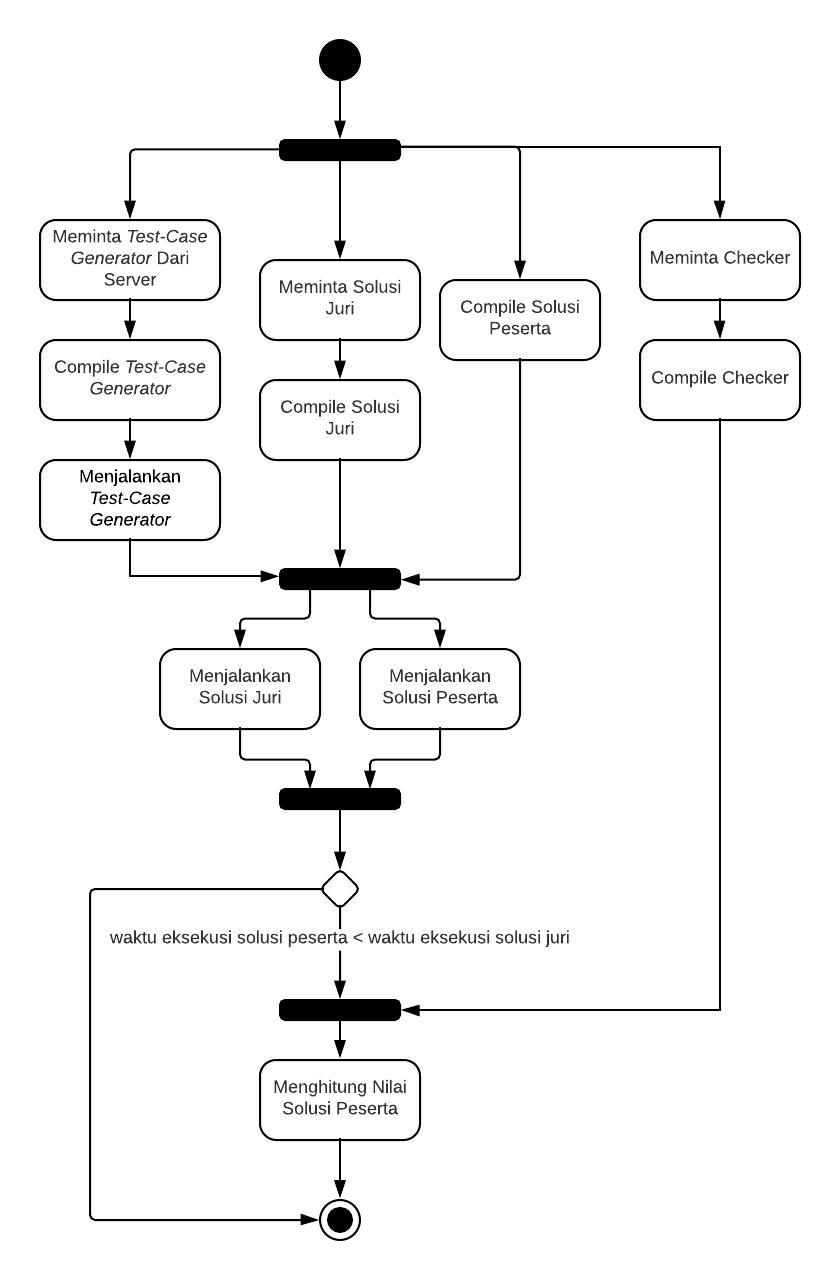
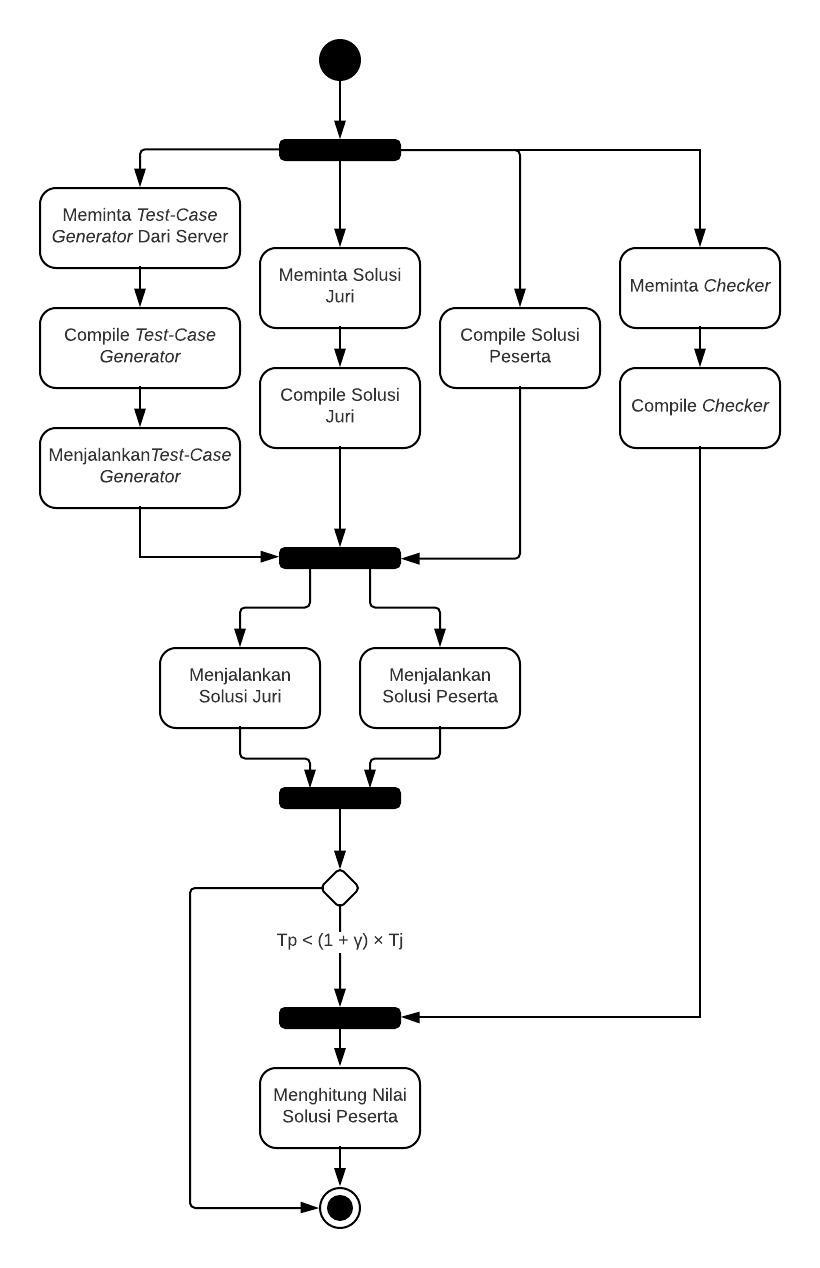
fix chapter 3

Changed region(s): [[0.0305, 0.0308, 0.9756, 0.9842]]

diff --git a/src/chapters/chapter-3.tex b/src/chapters/chapter-3.tex
@@ -4,7 +4,7 @@
 
 \section{Sistem \textit{Autograder}}
 
-\par Sistem manajemen kompetisi memerlukan \textit{autograder} untuk menilai jawaban peserta kompetisi secara otomatis. Sistem \textit{online judge} yang sering digunakan saat ini menggunakan \textit{autograder} yang dipasang oleh juri pada beberapa komputer yang sudah disediakan oleh juri. Pada Tugas Akhir ini akan diciptakan sistem \textit{autograder} yang dapat berjalan pada komputer peserta. Komputer peserta akan bertindak sebagai \textit{worker} yang menjalankan sistem \textit{autograder}. \textit{Worker} adalah komputer yang digunakan oleh sistem \textit{autograder} untuk melakukan penilaian terhadap jawaban peserta. Dalam Tugas Akhir ini, komputer peserta adalah \textit{worker} dari sistem \textit{autograder}. Terdapat beberapa aspek yang perlu diperhatikan dalam mengembangkan sistem \textit{autograder} seperti pengukuran waktu dan memori, \textit{load balancing}, evaluasi jawaban peserta, dan pengiriman \textit{test-case} ke \textit{worker}
+\par Sistem manajemen kompetisi memerlukan \textit{autograder} untuk menilai jawaban peserta kompetisi secara otomatis. Sistem \textit{online judge} yang sering digunakan saat ini menggunakan \textit{autograder} yang dipasang oleh juri pada beberapa komputer yang sudah disediakan oleh juri. Pada Tugas Akhir ini akan diciptakan sistem \textit{autograder} yang dapat berjalan pada komputer peserta. Komputer peserta akan bertindak sebagai \textit{worker} yang menjalankan sistem \textit{autograder}. \textit{Worker} adalah komputer yang digunakan oleh sistem \textit{autograder} untuk melakukan kompilasi dan eksekusi terhadap jawaban peserta. Dalam Tugas Akhir ini, komputer peserta adalah \textit{worker} dari sistem \textit{autograder}. Terdapat beberapa aspek yang perlu diperhatikan dalam mengembangkan sistem \textit{autograder} seperti pengukuran waktu dan memori, \textit{load balancing}, evaluasi jawaban peserta, dan pengiriman \textit{test-case} ke \textit{worker}
 
 \subsection{Pengukuran Waktu Dan Memori} \label{subsec:time-memory-measure}
 
@@ -14,7 +14,7 @@
 
 \subsubsection{Spesifikasi CPU dan Sistem Operasi}
 
-\par Kecepatan eksekusi sebuah program ditentukan dari \textit{clock-speed}, dan \textit{cache} dari CPU. Jika program peserta hanya diberikan satu buah \textit{core} dari CPU, maka jumlah \textit{core} dari CPU tidak perlu diperhatikan lagi. Kecepatan eksekusi program peserta dapat diukur dari spesifikasi CPU peserta. Komputer dengan \textit{clock-speed} dan ukuran \textit{cache} yang rendah akan diberikan batasan waktu yang lebih lama. Arsitektur setiap komputer juga berbeda-beda. Komputer dengan arsitektur 64-bit umumnya memerlukan memori yang lebih besar. Dengan mengetahui arsitektur komputer, kebutuhan memori dapat diperkirakan.
+\par Kecepatan eksekusi sebuah program ditentukan dari \textit{clock-speed}, dan \textit{cache} dari CPU. Jika program peserta hanya diberikan satu buah \textit{core} dari CPU, maka jumlah \textit{core} dari CPU tidak perlu diperhatikan lagi. Kecepatan eksekusi program peserta dapat diukur berdasarkan spesifikasi CPU peserta. Komputer dengan \textit{clock-speed} dan ukuran \textit{cache} yang rendah akan diberikan batasan waktu yang lebih lama. Arsitektur setiap komputer juga berbeda-beda. Komputer dengan arsitektur 64-bit umumnya memerlukan memori yang lebih besar. Dengan mengetahui arsitektur komputer, kebutuhan memori dapat diperkirakan.
 
 \par Pada penilaian jawaban peserta, diperlukan pengukuran waktu dan memori yang sangat akurat. Pengukuran waktu atau memori yang tidak akurat akan menimbulkan ketidakadilan kepada peserta. Dengan hanya memerhatikan spesifikasi dari CPU dan sistem operasi pada komputer, pengukuran waktu dan memori yang akurat sulit dilakukan. Program yang berjalan pada sistem operasi 64-bit tidak selalu memerlukan memori dua kali dari program yang berjalan pada sistem operasi 32-bit. Kebutuhan memori bergantung pada isi dari program yang dijalankan. Selain itu, menentukan batasan waktu program dari \textit{clock-speed} dan \textit{cache} tidak mudah dilakukan. 
 
@@ -30,42 +30,44 @@
 
 \par Permasalahan lain yang timbul adalah peserta dapat menjalankan program yang berat ketika \textit{benchmarking} dilakukan. Hal ini menyebabkan hasil \textit{benchmarking} menunjukkan waktu eksekusi yang lama sehingga batas waktu dari jawaban peserta akan dinaikkan. Untuk menghindari hal ini, benchmarking dapat dilakukan bersamaan dengan proses eksekusi jawaban peserta. \textit{Worker} akan menjalankan program solusi juri dan program solusi peserta dalam waktu bersamaan. Jika program peserta memiliki waktu eksekusi dan memori yang tidak jauh berbeda dengan juri maka solusi peserta dianggap sesuai batasan. Keluaran program peserta kemudian akan dibandingkan dengan keluaran program juri untuk menentukan kebenarannya.
 
-\begin{figure}
+\begin{figure}[ht!]
     \centering
     \includegraphics[width=0.5\textwidth]{images/cpu-time-counting}
     \caption{Diagram Aktivitas Penilaian Solusi Peserta}
     \label{fig:cpu-time-counting}
 \end{figure}
 
+\par Meskipun program solusi juri dan solusi peserta dieksekusi pada komputer yang sama. Waktu eksekusi kedua program tersebut dapat sedikit berbeda karena adanya perbedaan implementasi antara solusi peserta dan juri. Solusi peserta bisa saja lebih lambat atau lebih cepat dibandingkan dengan solusi juri. Oleh karena itu, perlu adanya faktor toleransi terhadap waktu eksekusi peserta. Solusi peserta dapat diterima jika waktu eksekusinya masih berada pada batas toleransi dari solusi juri. Secara matematis, solusi peserta akan diterima jika memenuhi persamaan berikut $ T_{peserta} < (1 + \gamma) \times T_{juri}$, dengan $\gamma$ adalah nilai dari faktor toleransi.
+
 \par Dengan membandingkan program solusi peserta dengan program solusi juri pada saat yang bersamaan, perhitungan waktu dan memori yang akurat dapat dilakukan. Meskipun peserta menjalankan program yang berat pada saat penilaian dilakukan, perbandingan waktu eksekusi dari program solusi juri dengan program solusi peserta akan tetap sama. Oleh karena itu, teknik ini akan digunakan untuk melakukan pengukuran waktu dan memori dalam menyelesaikan Tugas Akhir ini. Gambar \ref{fig:cpu-time-counting} menjelaskan proses penilaian jawaban peserta dengan membandingkan dengan program solusi juri. 
 
 \subsection{\textit{Load Balancing}}
 
-\par Dalam membangun sistem \textit{autograder}, diperlukan pembagian kerja kepada \textit{worker-worker} yang ada. \textit{Worker} yang dimaksud adalah komputer yang bekerja melakukan penilaian jawaban peserta. Dalam Tugas Akhir ini, \textit{worker} merupakan komputer peserta. Karena spesifikasi komputer tiap \textit{worker} berbeda-beda, diperlukan teknik pembagian kerja yang adil kepada seluruh peserta dan seluruh \textit{worker}. Selain itu aspek keamanan juga perlu diperhatikan karena jawaban peserta akan dikirimkan ke \textit{worker} lain. Terdapat beberapa pendekatan pembagian kerja yang dapat digunakan, yaitu: \textit{push-based}, \textit{pull-based}, dan \textit{self-grading}.
-
-\begin{figure}
+\begin{figure}[ht!]
     \centering
     \includegraphics[width=0.75\textwidth]{images/load-balancing-push}
     \caption{\textit{Push-Based Load Balancer}}
     \label{fig:load-balancing-push}
 \end{figure}
 
+\par Dalam membangun sistem \textit{autograder}, diperlukan pembagian kerja kepada \textit{worker-worker} yang ada. \textit{Worker} yang dimaksud adalah komputer yang bekerja melakukan penilaian jawaban peserta. Dalam Tugas Akhir ini, \textit{worker} merupakan komputer peserta. Karena spesifikasi komputer tiap \textit{worker} berbeda-beda, diperlukan teknik pembagian kerja yang adil kepada seluruh peserta dan seluruh \textit{worker}. Selain itu aspek keamanan juga perlu diperhatikan karena jawaban peserta akan dikirimkan ke \textit{worker} lain. Terdapat beberapa pendekatan pembagian kerja yang dapat digunakan, yaitu: \textit{push-based}, \textit{pull-based}, dan \textit{self-grading}.
+
 \par Pada pendekatan \textit{push-based}, sistem \textit{autograder} memerlukan sebuah \textit{master} yang akan membagikan pekerjaan ke seluruh \textit{worker}. \textit{Master} akan menentukan \textit{worker} mana yang akan diberikan suatu pekerjaan. Dengan menggunakan metode ini, \textit{master} perlu mengetahui informasi \textit{resource} dari seluruh \textit{worker} yang ada. Setiap \textit{worker} perlu mengirimkan informasi \textit{resource}-nya kepada \textit{master}. Metode ini cukup sulit untuk dilakukan karena perlunya mengimplementasikan algoritma \textit{load balancing} pada \textit{master}. Gambar \ref{fig:load-balancing-push} menggambarkan alur pembagian kerja dengan metode \textit{push-based}.
 
-\begin{figure}
+\begin{figure}[ht!]
     \centering
     \includegraphics[width=0.75\textwidth]{images/load-balancing-pull}
     \caption{\textit{Pull-Based Load Balancer}}
     \label{fig:load-balancing-pull}
 \end{figure}
 
-\par Pada pendekatan \textit{pull-based}, diperlukan juga sebuah \textit{master} yang akan menyimpan seluruh pekerjaan yang perlu diselesaikan. Berbeda dengan pendekatan \textit{push-based} dimana \textit{master} lah yang memberikan \textit{worker} pekerjaan. Pada pendekatan \textit{pull-based}, \textit{worker} yang sedang tersedia akan meminta pekerjaan kepada \textit{master}. Dengan pendekatan ini, pembagian pekerjaan akan menjadi rata dengan sendirinya. Metode ini lebih mudah untuk diimplementasikan dibanding dengan metode \textit{push-bashed} karena tidak perlu membuat algoritma \textit{load balancing}. Gambar \ref{fig:load-balancing-pull} menggambarkan alur pembagian kerja dengan metode \textit{pull-based}.
+\par Pada pendekatan \textit{pull-based}, diperlukan juga sebuah \textit{master} yang akan menyimpan seluruh pekerjaan yang perlu diselesaikan. Berbeda dengan pendekatan \textit{push-based} dimana \textit{master} lah yang memberikan \textit{worker} pekerjaan. Pada pendekatan \textit{pull-based}, \textit{worker} yang sedang tersedia akan meminta pekerjaan kepada \textit{master}. Dengan pendekatan ini, pembagian pekerjaan akan menjadi rata dengan sendirinya. Metode ini lebih mudah untuk diimplementasikan dibanding dengan metode \textit{push-bashed} karena tidak perlu membuat algoritma \textit{load balancing} yang spesifik pada \textit{master}. Gambar \ref{fig:load-balancing-pull} menggambarkan alur pembagian kerja dengan metode \textit{pull-based}.
 
 \par Selain pendekatan \textit{push-based} dan \textit{pull-based}, terdapat pendekatan lain yang lebih sederhana yaitu \textit{self-grading}. Pada \textit{self-grading}, peserta akan menilai jawabannya sendiri. Dengan menggunakan pendekatan ini, tidak diperlukan adanya \textit{master}. Selain itu, metode \textit{self-grading} lebih adil dibandingkan dengan metode \textit{push-based} dan \textit{pull-based}. Pada dua metode lainnya, peserta dapat mengirimkan jawaban secara terus menerus kepada sistem \textit{autograder} sehingga membanjiri sistem dan menimbulkan berkurangnya kinerja sistem. Dengan metode \textit{self-grading}, peserta yang mengirimkan jawaban secara terus menerus tidak akan membanjiri sistem dan hanya memperlambat proses penilaian jawabannya sendiri. Pada bagian \ref{subsec:time-memory-measure} dan \ref{subsec:time-memory-measure-compare-with-jury} juga sudah dijelaskan bahwa pada Tugas Akhir ini setiap peserta akan menilai jawabannya sendiri. Oleh karena itu, pada Tugas Akhir ini akan digunakan teknik \textit{self-grading}. 
 
 \subsection{Evaluasi Jawaban Menggunakan Sandbox}
 
-\par Dalam melakukan penilaian terhadap jawaban peserta, diperlukan adanya proses kompilasi dan eksekusi terhadap program yang dikirimkan peserta. Proses kompilasi dan eksekusi ini akan dijalankan pada \textit{worker}. Proses ini dapat membahayakan lingkungan \textit{worker} jika peserta mengirimkan kode program yang berbahaya. Untuk menghindari kerusakan pada \textit{worker}, proses ini perlu diisolasi sehingga tidak berpengaruh pada lingkungan \textit{worker}. Teknik untuk mengisolasi proses eksekusi program ini dinamakan \textit{sandboxing}. Terdapat beberapa teknik \textit{sandboxing} yang dapat digunakan.
+\par Dalam melakukan penilaian terhadap jawaban peserta, diperlukan adanya proses kompilasi dan eksekusi terhadap program yang dikirimkan peserta. Proses kompilasi dan eksekusi ini akan dijalankan pada \textit{worker}. Proses ini dapat membahayakan lingkungan \textit{worker} jika peserta mengirimkan kode program yang berbahaya. Untuk menghindari kerusakan pada \textit{worker}, proses ini perlu diisolasi sehingga tidak berpengaruh pada lingkungan \textit{worker}. Teknik untuk mengisolasi proses eksekusi program ini dinamakan \textit{sandboxing}. Terdapat beberapa teknik \textit{sandboxing} yang dapat digunakan seperti \textit{virtual machine} dan \textit{containerization}.
 
 \subsubsection{Menggunakan \textit{Virtual Machine}}
 
@@ -75,9 +77,9 @@
 
 \subsubsection{Menggunakan \textit{Cgroup}, \textit{Chroot} dan \textit{Namespace}}
 
-\par \textit{Cgroup}, \textit{chroot} dan \textit{namespace} merupakan suatu fitur pada linux yang memungkinkan penggunanya untuk mengeksekusi program secara terisolasi. \textit{Cgroup} dapat memberikan batasan \textit{resource} seperti IO, memory dan CPU kepada suatu program sehingga tidak membebani program lain. \textit{Chroot} memberikan isolasi \textit{filesystem} pada suatu program sehingga program yang berjalan di dalam \textit{chroot} tidak dapat mengakses \textit{filesystem} yang berada di luar \textit{chroot}. \textit{Namespace} memisahkan program pada linux menjadi beberapa partisi dan program pada sebuah partisi hanya dapat mengetahui program lain yang berada dalam partisi tersebut. Dengan menggabungkan ketiga fitur linux ini, dapat dibuat \textit{sandbox} yang cukup untuk mengeksekusi jawaban peserta.
+\par \textit{Cgroup}, \textit{chroot} dan \textit{namespace} merupakan suatu fitur pada Linux yang memungkinkan penggunanya untuk mengeksekusi program secara terisolasi. \textit{Cgroup} dapat memberikan batasan \textit{resource} seperti IO, memori dan CPU kepada suatu proses sehingga tidak membebani proses lain. \textit{Chroot} memberikan isolasi \textit{filesystem} pada suatu proses sehingga proses yang berjalan di dalam \textit{chroot} tidak dapat mengakses \textit{filesystem} yang berada di luar \textit{chroot}. \textit{Namespace} memisahkan proses pada Linux menjadi beberapa partisi. Proses pada sebuah partisi hanya dapat mengetahui proses lain yang berada dalam partisi tersebut. Dengan menggabungkan ketiga fitur Linux ini, dapat dibuat \textit{sandbox} yang cukup aman untuk mengeksekusi jawaban peserta.
 
-\par Dengan menggunakan teknik ini, penilaian jawaban peserta dapat dilakukan secara aman dengan sedikit \textit{overhead}. Teknik ini sudah digunakan oleh teknologi \textit{container} untuk mengisolasi program. Oleh karena itu, isolasi program dengan \textit{cgroup}, \textit{chroot} dan \textit{namespace} dipilih dalam Tugas Akhir ini.
+\par Teknik ini sudah digunakan oleh teknologi \textit{container} untuk mengisolasi program. Dengan menggunakan teknik ini, penilaian jawaban peserta dapat dilakukan secara aman dengan sedikit \textit{overhead}. Oleh karena itu, isolasi program dengan \textit{cgroup}, \textit{chroot} dan \textit{namespace} dipilih dalam Tugas Akhir ini.
 
 \subsection{Pengiriman \textit{Test-Case} Ke \textit{Worker}} \label{subsec:sending-test-case-to-worker}
 
@@ -85,7 +87,7 @@
 
 \par \textit{Test-case} dan \textit{checker} merupakan informasi rahasia yang perlu dipertukarkan antara \textit{worker} dan \textit{server}. Pertukaran informasi rahasia ini dapat dilakukan dengan menggunakan teknik kriptografi dimana informasi akan dienkripsi terlebih dahulu sebelum dikirimkan. Proses enkripsi dan dekripsi dapat dilakukan pada lapisan \textit{transport} menggunakan TCP dengan TLS.
 
-\begin{figure}
+\begin{figure}[ht!]
     \centering
     \includegraphics[width=0.85\textwidth]{images/grading-dfd}
     \caption{Diagram Aliran Data Pada Proses Penilaian Solusi Peserta}
@@ -94,7 +96,7 @@
 
 \par Dengan menggunakan TCP dan TLS, kebocoran informasi yang dikirimkan melalui jaringan dapat dihindari sehingga tidak ada pihak ketiga yang dapat mengetahui isi dari informasi tersebut. Akan tetapi, karena informasi ini diterima oleh komputer peserta, peserta dapat dengan mudah mengetahui isi dari informasi tersebut. Oleh karena itu, diperlukan satu lapisan enkripsi lagi pada aplikasi yang berjalan pada komputer peserta. Untuk mencegah peserta mengetahui kunci yang digunakan oleh aplikasi pada komputernya, algoritma pertukaran kunci seperti \textit{Diffie-Hellman} dapat digunakan.
 
-\begin{figure}
+\begin{figure}[ht!]
     \centering
     \includegraphics[width=0.65\textwidth]{images/total-grader-activity}
     \caption{Alur Proses Penilaian Jawaban Peserta}
@@ -119,7 +121,7 @@
 \begin{enumerate}
     \item Peserta dan juri dapat melihat soal.
     \item Peserta dapat mengirim jawaban.
-    \item Sistem dapat menilai jawaban peserta.
+    \item Sistem \textit{autograder} dapat menilai jawaban peserta.
     \item Peserta dapat mengirim klarifikasi soal.
     \item Juri dapat membuat pengumuman terkait kompetisi.
     \item Juri dapat menjawab klarifikasi peserta.
@@ -152,7 +154,7 @@
 
 \par Pada kompetisi \textit{competitive programming}, deskripsi soal dapat diakses melalui sistem \textit{online judge} yang biasanya berupa halaman web. Dalam beberapa kompetisi, peserta kompetisi akan mendapatkan \textit{hard-copy} dari soal. Komponen soal dibutuhkan oleh sistem manajemen kompetisi untuk mengelola soal yang ada pada kompetisi. Komponen ini memberikan layanan kepada pengguna untuk melihat soal. Terkadang terdapat kesalahan pada soal ketika kompetisi berlangsung sehingga komponen ini perlu memberikan layanan kepada juri untuk mengganti soal.
 
-\par Soal pada kompetisi \textit{competitive programming} memiliki deskripsi yang merupakan penjelasan terhadap masalah yang harus diselesaikan peserta. Pada deskripsi soal terdapat penjelasan mengenai permasalahan yang dimaksud, format masukan, format keluaran, contoh masukan, dan contoh keluaran. \textit{Online judge} yang populer saat ini memberikan deskripsi soal kepada peserta dengan format \textit{pdf} atau menampilkannya dalam halaman web. Komponen soal perlu menyimpan deskripsi soal untuk dapat memberikannya kepada pengguna. Deskripsi soal dapat disimpan pada \textit{filesystem} dalam bentuk pdf atau disimpan dalam database dalam bentuk HTML. Untuk memudahkan implementasi pada Tugas Akhir ini, deskripsi soal akan disimpan dalam basis data.
+\par Soal pada kompetisi \textit{competitive programming} memiliki deskripsi yang merupakan penjelasan terhadap masalah yang harus diselesaikan peserta. Pada deskripsi soal terdapat penjelasan mengenai permasalahan yang dimaksud, format masukan, format keluaran, contoh masukan, dan contoh keluaran. \textit{Online judge} yang populer saat ini memberikan deskripsi soal kepada peserta dengan format \textit{pdf} atau menampilkannya dalam halaman web. Komponen soal perlu menyimpan deskripsi soal untuk dapat memberikannya kepada pengguna. Deskripsi soal dapat disimpan pada \textit{filesystem} dalam bentuk pdf atau disimpan dalam sistem manajemen basis data dalam bentuk HTML. Untuk memudahkan implementasi pada Tugas Akhir ini, deskripsi soal akan disimpan dalam basis data.
 
 \par Setiap soal perlu memiliki program \textit{test-case generator}, \textit{solution}, dan \textit{checker}. Ketiga buah program ini dibuat oleh juri untuk melakukan penilaian jawaban peserta. \textit{Test-case generator} adalah program yang dibuat oleh juri untuk membangkitkan \textit{test-case} seperti yang sudah dijelaskan pada bagian \ref{subsec:sending-test-case-to-worker}. \textit{Solution} adalah program yang merupakan solusi valid dari soal. Program solusi ini dibuat oleh juri untuk dibandingkan dengan jawaban peserta seperti yang sudah dijelaskan pada bagian \ref{subsec:time-memory-measure-compare-with-jury}. Program \textit{checker} akan digunakan oleh \textit{worker} untuk menentukan kebenaran jawaban peserta. Terkadang terdapat lebih dari satu jawab yang benar pada sebuah soal. Oleh karena itu, program \textit{checker} ini dibutuhkan untuk menilai jawaban peserta. 
 

diff --git a/src/main.tex b/src/main.tex
@@ -20,7 +20,7 @@
 \usepackage{longtable}
 \usepackage[titles]{tocloft}
 
-\hyphenation{jud-ge meng-gu-na-kan me-nye-le-sai-kan pe-rang-kat men-ja-lan-kan di-la-ku-kan on-line ja-wab-an WebAssembly}
+\hyphenation{jud-ge meng-gu-na-kan me-nye-le-sai-kan pe-rang-kat men-ja-lan-kan di-la-ku-kan on-line ja-wab-an WebAssembly a-kan mem-be-ri-kan}
 
 \hypersetup{colorlinks=false, pdfborder={0 0 0},}
 
